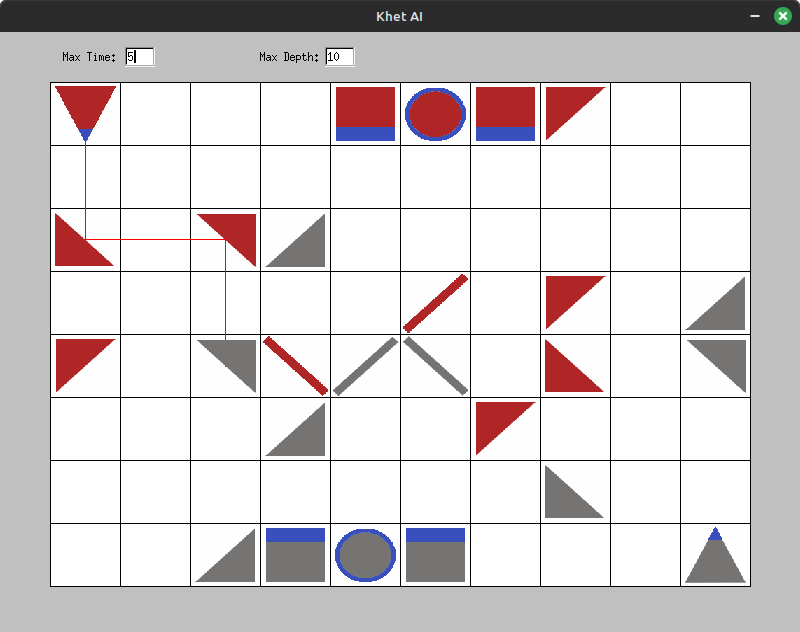
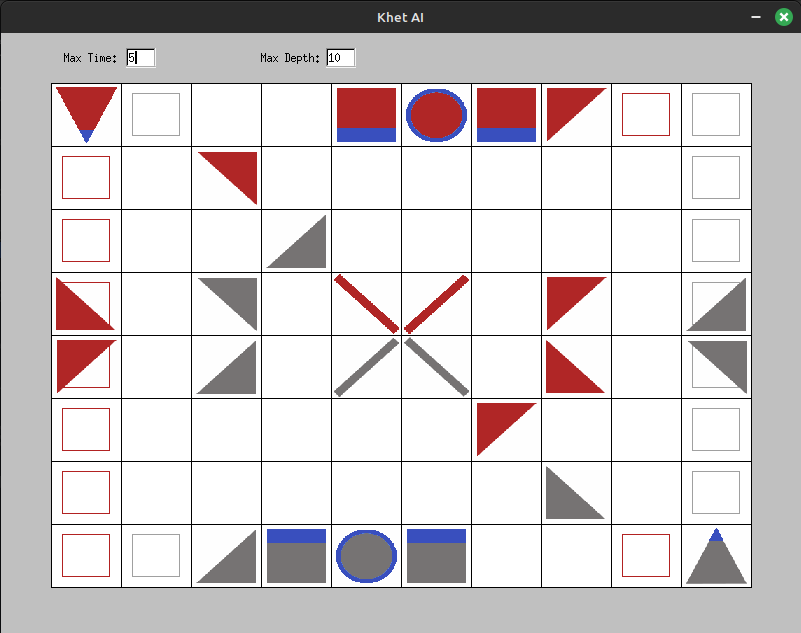
fixing board view. fixing scarab swap. more debug lines.

diff --git a/ext/khetai/khetai_lib.c b/ext/khetai/khetai_lib.c
@@ -33,6 +33,7 @@ Move alphabeta_root(int depth, enum Player player)
     Move valid_moves[NUM_VALID_MOVES] = {0};
     int vi = 0;
     find_valid_moves(valid_moves, &vi);
+    // qsort(valid_moves, vi, sizeof(Move), compare_moves);
     for (int i = 0; i < NUM_VALID_MOVES; i++)
     {
         if (valid_moves[i] == 0)
@@ -51,6 +52,8 @@ Move alphabeta_root(int depth, enum Player player)
         if (alpha >= beta)
             break;
     }
+
+    printf("SCORE:\t%d\n", best_score);
     return best_move;
 }
 
@@ -89,8 +92,10 @@ int alphabeta(int depth, enum Player player, int alpha, int beta)
     }
 
     find_valid_moves(valid_moves, &vi);
+    // qsort(valid_moves, vi, sizeof(Move), compare_moves);
     int best_score = -MAX_SCORE;
     Move best_move = (Move)0;
+
     for (int i = 0; (i < NUM_VALID_MOVES && (time(NULL) - start_time < max_time)); i++)
     {
         if (valid_moves[i] == 0)
@@ -144,6 +149,19 @@ void insert_table(uint64_t key, int depth, int flag, int score, Move move)
     }
 }
 
+int compare_moves(const void *a, const void *b)
+{
+    Move moveA = *(const Move *)a;
+    Move moveB = *(const Move *)b;
+    return score_move(moveB) - score_move(moveA);
+}
+
+int score_move(Move move)
+{
+    // TODO: efficient function to help sort moves
+    return 0;
+}
+
 int calculate_score()
 {
     int score = 0;
@@ -167,8 +185,9 @@ int calculate_score()
                 value += rand() % 20;
                 break;
             case Scarab:
-                value += (100 / distance_from_pharaoh(i, pharaoh_loc[opposite_player(get_owner(s))])) * 10;
-                value += rand() % 10;
+                int max_distance = 16;
+                int base_score = 1000;
+                value += (max_distance - distance_from_pharaoh(i, pharaoh_loc[opposite_player(get_owner(s))])) * base_score / max_distance;
                 break;
             case Pharaoh:
                 value += pharaoh_score;
@@ -375,14 +394,7 @@ void find_valid_scarab_moves(int i, Move *valid_moves, int *vi)
         int dest = i + directions[j];
         if (can_move[whose_turn][dest])
         {
-            if (is_piece(board[dest]))
-            {
-                if (get_piece(board[dest]) == Anubis || get_piece(board[dest]) == Pyramid)
-                {
-                    valid_moves[(*vi)++] = new_move(i, dest, 0);
-                }
-            }
-            else
+            if (!is_piece(board[dest]) || get_piece(board[dest]) != Pharaoh)
             {
                 valid_moves[(*vi)++] = new_move(i, dest, 0);
             }

diff --git a/ext/khetai/dev/fltk-ui/game_board.cpp b/ext/khetai/dev/fltk-ui/game_board.cpp
@@ -36,6 +36,9 @@ void GameBoard::draw()
         fl_line(x(), current_y, x() + w(), current_y);
     }
 
+    // Draw inner squares
+    drawInnerSquares();
+
     // highlight selected square
     if (square_selected)
     {
@@ -65,6 +68,45 @@ void GameBoard::draw()
             }
         }
     }
+}
+
+void GameBoard::drawInnerSquares()
+{
+    static const Fl_Color SILVER = fl_rgb_color(160, 160, 160);
+    static const Fl_Color DARK_RED = fl_rgb_color(178, 34, 34);
+    for (int row = 0; row < rows; ++row)
+    {
+        for (int col = 0; col < cols; ++col)
+        {
+            int padding_x = cell_width / 6;
+            int padding_y = cell_height / 6;
+            int square_width = cell_width - (2 * padding_x);
+            int square_height = cell_height - (2 * padding_y);
+
+            switch (move_permissions[row][col])
+            {
+            case S:
+                fl_color(SILVER);
+                fl_line_style(FL_SOLID, 1);
+                fl_rect(x() + col * cell_width + padding_x,
+                        y() + row * cell_height + padding_y,
+                        square_width,
+                        square_height);
+                break;
+            case R:
+                fl_color(DARK_RED);
+                fl_line_style(FL_SOLID, 1);
+                fl_rect(x() + col * cell_width + padding_x,
+                        y() + row * cell_height + padding_y,
+                        square_width,
+                        square_height);
+                break;
+            case B:
+                break;
+            }
+        }
+    }
+    fl_line_style(0);
 }
 
 int GameBoard::handle(int event)
@@ -811,4 +853,15 @@ std::unordered_map<GameBoard::LaserDirection, std::unordered_map<GameBoard::Piec
         {PHARAOH, {{ORIENT_NORTH, RESULT_DEAD}, {ORIENT_EAST, RESULT_DEAD}, {ORIENT_SOUTH, RESULT_DEAD}, {ORIENT_WEST, RESULT_DEAD}}},
         {SPHINX, {{ORIENT_NORTH, RESULT_ABSORBED}, {ORIENT_EAST, RESULT_ABSORBED}, {ORIENT_SOUTH, RESULT_ABSORBED}, {ORIENT_WEST, RESULT_ABSORBED}}}
     }}
+};
+
+const GameBoard::MovePermission GameBoard::move_permissions[8][10] = {
+    {B, S, B, B, B, B, B, B, R, S},
+    {R, B, B, B, B, B, B, B, B, S},
+    {R, B, B, B, B, B, B, B, B, S},
+    {R, B, B, B, B, B, B, B, B, S},
+    {R, B, B, B, B, B, B, B, B, S},
+    {R, B, B, B, B, B, B, B, B, S},
+    {R, B, B, B, B, B, B, B, B, S},
+    {R, S, B, B, B, B, B, B, R, B}
 };

diff --git a/ext/khetai/khetai_lib.h b/ext/khetai/khetai_lib.h
@@ -87,21 +87,20 @@ static const int on_board[120] = {
     0, 1, 1, 1, 1, 1, 1, 1, 1, 1, 1, 0,
     0, 0, 0, 0, 0, 0, 0, 0, 0, 0, 0, 0};
 
-
-
 #ifdef __cplusplus
-extern "C" {
+extern "C"
+{
 #endif
 
-extern time_t start_time;
-extern int max_time;
+    extern time_t start_time;
+    extern int max_time;
 
-void reset_undo();
-void init_zobrist();
-void setup_board(char *board[]);
-Move alphabeta_root(int depth, enum Player player);
-void make_move(Move move);
-void print_board();
+    void reset_undo();
+    void init_zobrist();
+    void setup_board(char *board[]);
+    Move alphabeta_root(int depth, enum Player player);
+    void make_move(Move move);
+    void print_board();
 
 #ifdef __cplusplus
 }
@@ -115,6 +114,8 @@ void find_valid_anubis_pyramid_moves(int i, Move *valid_moves, int *vi);
 void find_valid_scarab_moves(int i, Move *valid_moves, int *vi);
 void find_valid_pharaoh_moves(int i, Move *valid_moves, int *vi);
 void find_valid_sphinx_moves(int i, Move *valid_moves, int *vi);
+int score_move(Move move);
+int compare_moves(const void *a, const void *b);
 
 int alphabeta(int depth, enum Player player, int alpha, int beta);
 int calculate_score();

diff --git a/ext/khetai/dev/fltk-ui/game_board.h b/ext/khetai/dev/fltk-ui/game_board.h
@@ -53,6 +53,12 @@ public:
         RESULT_SOUTH,
         RESULT_NORTH
     };
+    enum MovePermission
+    {
+        S = 1,
+        R = 2,
+        B = 3
+    };
 
     static std::string getPieceFilename(char piece, int direction);
     static std::pair<PieceType, PieceOrientation> getPieceTypeAndOrientation(const std::string &piece_str);
@@ -78,7 +84,9 @@ private:
     static std::unordered_map<char, std::string> piece_map;
     static std::unordered_map<int, int> rotate_left_map;
     static std::unordered_map<int, int> rotate_right_map;
+    static const MovePermission move_permissions[8][10];
 
+    void drawInnerSquares();
     void rotateSelectedPiece(bool clockwise);
     void moveSelectedPiece(int end_square);
     void swapPieces(int swap_square);

diff --git a/ext/khetai/dev/fltk-ui/game_board_util.cpp b/ext/khetai/dev/fltk-ui/game_board_util.cpp
@@ -72,6 +72,7 @@ Move call_ai_move(const std::vector<std::vector<std::string>> &board_pieces, Pla
     Move current_move = (Move)0;
     while ((time(NULL) - start_time < max_time) && (depth <= max_depth))
     {
+        printf("LEVEL %d\t->\t", depth);
         best_move = current_move;
         current_move = alphabeta_root(depth, player);
         depth++;

diff --git a/ext/khetai/dev/fltk-ui/README.md b/ext/khetai/dev/fltk-ui/README.md
@@ -23,10 +23,4 @@ The KhetAI Test Harness provides a GUI for interacting with the KhetAI library. 
 
 - **Enter**: Uses khetai_lib to determine a move for Red. The pieces will move and the laser will fire automatically once it finishes.
 
-### TODO:
-
-- Restrict user from moving pieces into illegal positions.
-  - Label colored squares.
-
-
 ![board](assets/example_board.png)

diff --git a/ext/khetai/dev/README.md b/ext/khetai/dev/README.md
@@ -1,0 +1,15 @@
+# Dev Tools
+
+A few ways to test the khetai_lib...
+
+### main.c
+
+A small C program to execute a single move from the starting position.
+
+### main.rb
+
+A small Ruby program that will execute a single move form the starting position.
+
+### fltk-ui
+
+A C++ FLTK GUI that allows you set up the board however you want and request a move.
